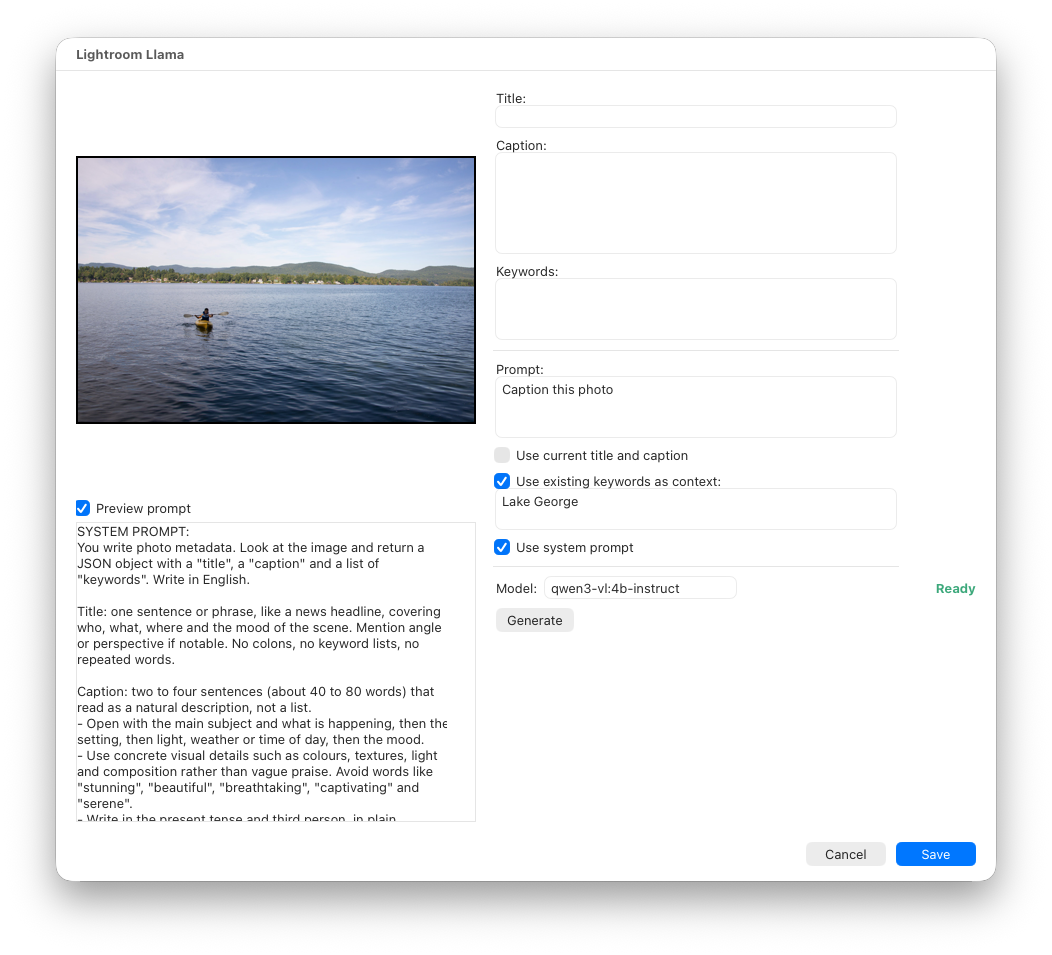
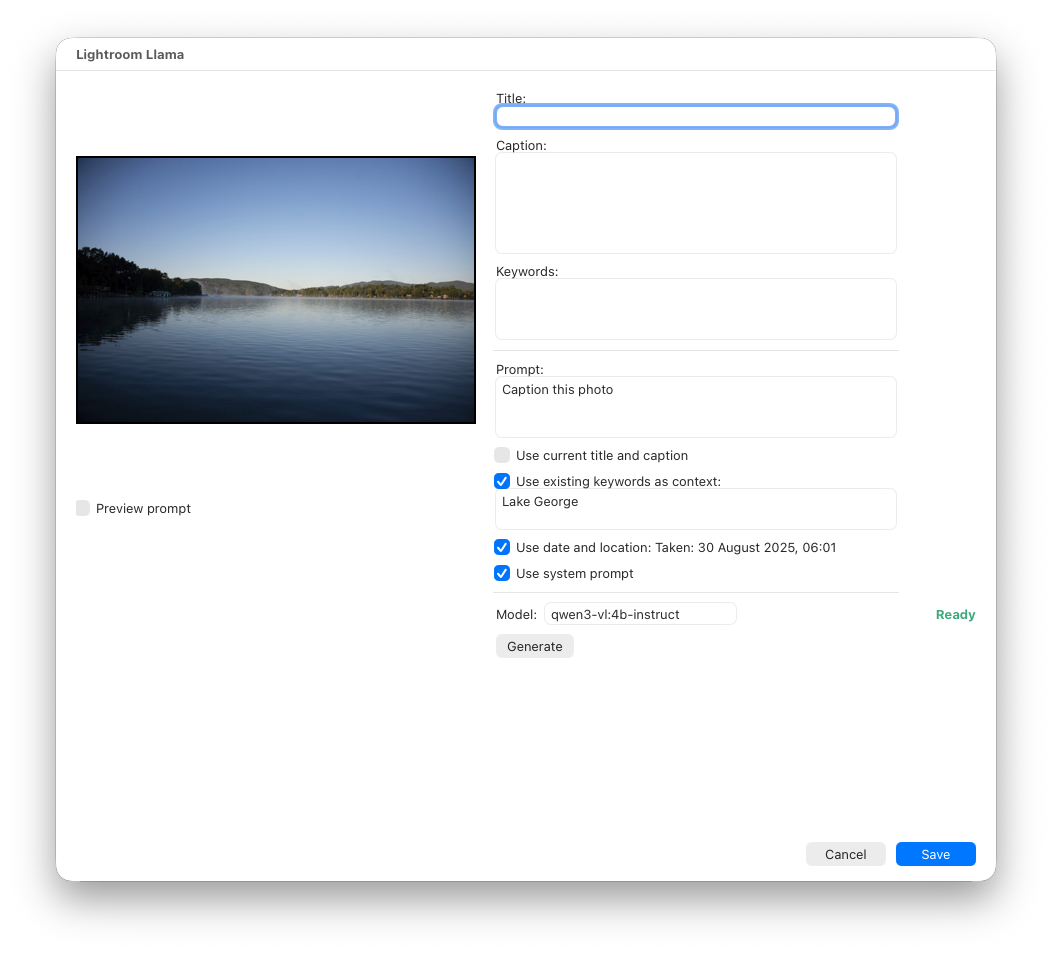
refactor: update plugin metadata, enhance functionality, and remove obsolete files

diff --git a/CHANGELOG.md b/CHANGELOG.md
@@ -1,8 +1,10 @@
 # Lightroom Llama: changelog
 
-All changes are to `LrLlama.lua`. `Info.lua` and `JSON.lua` are unchanged.
+## 2.0.0 (17 November 2026)
 
-## Bug fixes
+First release of this fork, compared with the original plugin. Most changes are to `LrLlama.lua`. `JSON.lua` is unchanged.
+
+### Bug fixes
 
 - **"nil passed to JSON:decode()" crash fixed.** The plugin assumed Ollama always returns a result. When Ollama reports an error instead (for example, model not found), it now shows Ollama's actual message rather than crashing.
 - **Thumbnail timing fixed.** The plugin waits (up to 15 seconds) for Lightroom to deliver the thumbnail before using it.
@@ -11,14 +13,14 @@ All changes are to `LrLlama.lua`. `Info.lua` and `JSON.lua` are unchanged.
 - **Empty title or caption** no longer breaks the prompt.
 - **JSON fallback.** If a model doesn't support Ollama's JSON mode ("structured output is unavailable"), the request is retried without it, and the JSON is extracted from the reply, ignoring surrounding text, code fences or `<think>` blocks.
 - **Request timeouts.** Each request may take up to 180 seconds (`requestTimeout`). A timeout is reported as such, not as "Ollama isn't running".
-- **Broken or runaway replies.** Replies are capped at 600 tokens with a mild repetition penalty, so a model stuck repeating itself stops quickly. A broken or empty reply is retried once automatically, and the log records why it failed.
+- **Broken or runaway replies.** Replies are capped at 600 tokens (`maxReplyTokens`) with a mild repetition penalty, so a model stuck repeating itself stops quickly. A broken or empty reply is retried once automatically, and the log records why it failed.
 - **Thinking switched off.** Requests ask Ollama to turn off step-by-step "thinking" (Gemma 4, Qwen thinking builds), which could use up the whole reply and leave the answer empty. Models without a thinking mode that reject the setting are retried without it.
 - **Temporary thumbnails deleted** after each request and when the single-photo dialog closes.
 - **Log location comment updated** for Lightroom Classic 14 and later:
   - macOS: `~/Library/Logs/Adobe/Lightroom/LrClassicLogs/LrLlama.log`
   - Windows: `%LOCALAPPDATA%\Adobe\Lightroom\Logs\LrClassicLogs\LrLlama.log`
 
-## Model and request
+### Model and request
 
 - **Default model** changed from `gemma3:12b` to `qwen3-vl:4b-instruct`.
 - **Editable Model box** in both dialogs. The value lasts for that dialog only and is not saved.
@@ -28,7 +30,7 @@ All changes are to `LrLlama.lua`. `Info.lua` and `JSON.lua` are unchanged.
 - **Image size** raised from 512 to 768 px, set by `thumbnailSize` near the top of the file.
 - **Smaller log.** The encoded image is no longer logged. The prompts and Ollama's full reply (including timings) still are.
 
-## Prompt
+### Prompt
 
 - **Rewritten system prompt.** About a third of the original length, sample sunset-and-beach answer removed, asks for English.
 - **Caption guidance:**
@@ -39,7 +41,7 @@ All changes are to `LrLlama.lua`. `Info.lua` and `JSON.lua` are unchanged.
   - works given names, places and events in naturally
   - mood taken from what is visible, without guessing feelings
   - about 40 to 80 words
-- **No em dashes.** Forbidden in the prompt, and any that appear in the title or caption are replaced with commas in code (including `--` used as a dash). Hyphens and number ranges are untouched.
+- **No em dashes.** Forbidden in the prompt, and any that appear in the title or caption are replaced with commas in code (including `--` and spaced en dashes used as a dash). A dash at the very end is removed rather than left as a trailing comma. Hyphens and number ranges are untouched.
 - **Existing keywords as context.**
   - Single mode: a checkbox and editable box, pre-filled with the photo's own (non-`llm`) keywords.
   - Batch mode: an option to use each photo's own keywords.
@@ -49,21 +51,27 @@ All changes are to `LrLlama.lua`. `Info.lua` and `JSON.lua` are unchanged.
 - **Keyword rules** (under their own heading): 7 to 15 keywords, everything named in the caption also a keyword, singular nouns, lower case except names, one keyword per idea, no padding words such as "setting", "scene", "view" or "area", no camera details or generic words.
 - **Existing-keyword list removed from the prompt.** An earlier version listed up to 200 existing `llm` keywords for the model to reuse. The small model copied unrelated keywords from it (from other photos), so it is off by default (`offerVocabularyToModel = false`). Near-duplicate matching in code still uses all existing keywords.
 
-## Keyword clean-up in code
+### Keyword clean-up in code
 
 - **No repeats of your own keywords.** Keywords already on a photo (and their synonyms) are never added again under `llm`.
-- **Near-duplicates merged.** Matching ignores capitals, plural endings (including irregular plurals such as leaves/leaf, people/person, children/child and movies/movie) and filler words. "outdoors", "outdoor setting" and "Outdoor" become one keyword.
+- **Near-duplicates merged.** Matching ignores capitals, plural endings (including irregular plurals such as leaves/leaf, people/person, children/child, movies/movie, tomatoes/tomato and buses/bus) and filler words. "outdoors", "outdoor setting" and "Outdoor" become one keyword.
+- **Plural-looking words kept apart.** Words such as shorts, glasses, jeans, news and species are not reduced to a different word ("shorts" no longer matches "short", "glasses" no longer matches "glass").
+- **Keywords containing commas split.** A reply keyword such as "Oslo, Norway" becomes "Oslo" and "Norway", as Lightroom does, so single and batch mode save the same keywords.
 - **Existing spelling reused.** When a generated keyword matches an existing `llm` keyword, the existing one is used rather than a new variant being created.
 - **Plainer variant kept.** When a reply contains two new variants of one idea, the shorter is kept ("forest" over "forest scene").
 - **Keyword cap enforced.** Only the first 15 keywords of a reply are kept (`maxKeywords`).
 
-## Single-photo dialog
+### Single-photo dialog
 
 - **Timer.** Generation time in whole seconds, shown in blue to the right of the Model box after each successful run.
 - **Preview prompt.** A checkbox under the photo (off by default) showing a read-only, scrollable view of exactly what will be sent. It reflects the Prompt box and all checkboxes, and updates as you type in the Prompt box.
 - **Use date and location** checkbox, showing the details found for the photo.
+- **Save matches the Keywords box.** Save adds the keywords in the box under `llm` and removes any `llm` keywords on the photo that are no longer in the box (for example after Generate replaced the list, or you deleted one). Duplicate variants already on the photo (such as "tree" and "trees") are cut down to the one kept. Removed keywords stay in the catalog until purged.
+- **Blank results ignored.** An empty title or caption from the model no longer clears the box.
+- **Generate and Save disabled while generating,** so a second click can't start a competing request and Save can't store the old text while a new reply is on its way.
+- **Save errors reported.** If Lightroom can't save (for example the catalog is busy), a message says so instead of Lightroom's raw error.
 
-## Batch mode (new)
+### Batch mode (new)
 
 - Used automatically when more than one photo is selected.
 - **Dialog:** prompt, "Use each photo's current title and caption", "Use each photo's existing keywords as context", "Use each photo's date and location", "Skip photos that already have a caption", "Use system prompt", editable Model box.
@@ -73,14 +81,20 @@ All changes are to `LrLlama.lua`. `Info.lua` and `JSON.lua` are unchanged.
   - each photo saved as its own Undo step
   - a blank result never wipes an existing title or caption
   - a photo that times out or returns a broken reply is retried once
+  - a photo that hits an unexpected error is listed as failed and the batch carries on, instead of stopping with Lightroom's raw error
   - stops at the first photo if Ollama can't be reached or the model is missing, or after 3 timeouts in a row
   - summary at the end, with skipped photos and any failures (details in the log)
 - **Consistent keywords across the batch.** Keywords created for one photo are matched against for later photos.
 
+### Project files
+
+- **`Info.lua`:** real description, version 2.0.0, and the info link now points to this fork. The plugin identifier is unchanged so Lightroom still sees it as the same plugin.
+- **Removed** `request.txt` (an old test request) and the GitHub Pages workflow inherited from the original project.
+
 ## Known limitations
 
 - True synonyms (for example "woods" and "forest") are not merged.
-- Words sharing a root are merged even when the meaning differs (for example "glasses" and "glass").
+- Words sharing a root may still be merged when the meaning differs, unless they are in the plugin's list of exceptions.
 - Photos with GPS coordinates but empty location fields get no place name; fill the fields from Lightroom's Map module first.
 - The capture time comes from the camera clock, so it is wrong if the camera was set wrong.
 - Keyword examples in the prompt can occasionally be copied onto photos where they don't belong.

diff --git a/README.md b/README.md
@@ -70,8 +70,8 @@ Select one photo and choose **Library > Plug-in Extras > Lightroom Llama...**
    - **Use date and location:** shows when and where the photo was taken, from its metadata; greyed out if none is recorded
    - **Use system prompt:** the full writing guidelines (recommended)
    - **Model:** any installed Ollama vision model
-2. Click **Generate**. The time taken appears in blue next to the Model box.
-3. Review and edit the title, caption and keywords, then click **Save**.
+2. Click **Generate**. The button is greyed out until the reply arrives, then the time taken appears in blue next to the Model box. A blank title or caption in the reply leaves the current one in place.
+3. Review and edit the title, caption and keywords, then click **Save**. The photo's `llm` keywords are set to exactly what is in the Keywords box: any you removed from the box are removed from the photo, and duplicate variants already on it (such as "tree" and "trees") are cut down to one. Save is greyed out while Generate is running.
 
 Tick **Preview prompt** under the photo to see exactly what will be sent to the model.
 
@@ -87,6 +87,7 @@ Notes:
 - Each photo is saved as its own step, so recent ones can be reverted with Edit > Undo.
 - A blank result never wipes an existing title or caption.
 - A photo that times out or returns a broken reply is retried once.
+- A photo that hits an unexpected error is listed as failed and the batch moves on to the next one.
 - If Ollama isn't running or the model is missing, the batch stops at the first photo. It also stops after 3 timeouts in a row.
 - A summary at the end shows skipped photos and lists any that failed.
 
@@ -96,7 +97,9 @@ Notes:
 - The model is asked to cover subject, clothing and objects, setting, season and light, action or pose, and mood, with 7 to 15 keywords. Anything past 15 is dropped.
 - Near-duplicates are merged before saving, including against all your existing `llm` keywords. Matching ignores capitals, plurals (including irregular ones such as leaves/leaf and people/person) and padding words such as "setting", "scene" and "view".
 - When a generated keyword matches one you already have, your existing spelling is used.
-- Em dashes are removed from titles and captions.
+- Words such as shorts, glasses, jeans and news are treated as their own words, not plurals.
+- A keyword containing commas, such as "Oslo, Norway", is split into separate keywords.
+- Em dashes (and dashes used between clauses) are removed from titles and captions.
 
 To clean up old duplicate keywords, remove them from your photos and choose **Metadata > Purge Unused Keywords**.
 
@@ -110,9 +113,10 @@ Settings at the top of `LrLlama.lua`:
 | `thumbnailSize` | `768` | Longest side in pixels of the image sent to the model. Larger shows more detail but is slower. |
 | `requestTimeout` | `180` | Seconds to wait for Ollama to answer one photo |
 | `maxKeywords` | `15` | Most keywords kept from each reply |
+| `maxReplyTokens` | `600` | Most tokens a reply may use, so a model stuck repeating itself stops quickly |
 | `offerVocabularyToModel` | `false` | List your existing `llm` keywords in the prompt. Small models tend to copy unrelated keywords from it, so leave off unless using a larger model. |
 
-Requests also keep the model loaded for 30 minutes, use a temperature of 0.3, cap replies at 600 tokens, fix the context size at 8,192 tokens and switch off "thinking".
+Requests also keep the model loaded for 30 minutes, use a temperature of 0.3, fix the context size at 8,192 tokens and switch off "thinking".
 
 ## Troubleshooting
 
@@ -130,6 +134,7 @@ Watch it live on macOS with `tail -f ~/Library/Logs/Adobe/Lightroom/LrClassicLog
 | Ollama error: structured output is unavailable | Handled automatically: the plugin retries without JSON mode. Avoid `:cloud` and `-mlx` tags if problems continue. |
 | The model's reply wasn't valid JSON / was cut off | The model broke format or got stuck repeating itself. Retried once automatically; the full reply is in the log. |
 | Ollama returned an empty response / spent its whole reply thinking | The model's "thinking" used up the reply. Use a non-thinking model, such as an `-instruct` build. |
+| Could not save to the photo | Lightroom was busy (for example another plugin or a sync was writing to the catalog). Click Save again in a moment. |
 
 **Place names missing:** the plugin reads Lightroom's location, city, state and country fields, not raw GPS. Fill those fields from the Map module first.
 
@@ -145,6 +150,8 @@ Watch it live on macOS with `tail -f ~/Library/Logs/Adobe/Lightroom/LrClassicLog
 - [x] Clean up temporary thumbnail files
 - [ ] Merge true synonyms (for example "woods" and "forest")
 - [ ] Tool to merge duplicate `llm` keywords already in the catalog
+- [ ] Put processed batch photos in a review collection
+- [ ] Decide whether single-photo Save should keep an `llm` keyword that has the same name as one of your own keywords on the photo (at the moment the `llm` copy is removed)
 
 ## Credits
 
